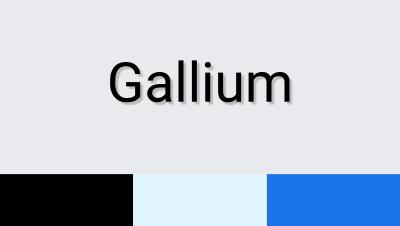
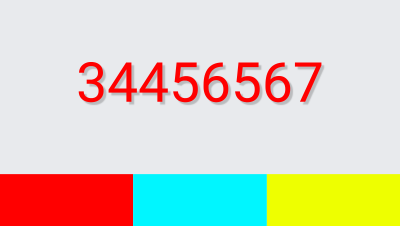
Insert zip content

diff --git a/.contentfusion/templates/34456567/styles.css b/.contentfusion/templates/34456567/styles.css
@@ -1,6 +1,6 @@
 @import url('https://fonts.googleapis.com/css?family=Roboto+Mono&display=swap');
 /*#
-@colors&{"titlesAccentColor":"#000000","labelsAccentColor":"#e1f5fe","linksAccentColor":"#1a73e8","backgroundAccentColor":"#e8eaed","isDefault":true}&colors@
+@colors&{"titlesAccentColor":"#ff0000","labelsAccentColor":"#00f6ff","linksAccentColor":"#eeff00","backgroundAccentColor":"#e8eaed","isDefault":true}&colors@
 @info@STYLES BASKET SELECTIONS METADATA@info@
 @name&styles_basket&name@
 @aspects&wh-tiles,accent-colors-selector,fonts-selector,code-font-roboto-mono,unordered-list-bullet-disc,table-style-bottom-border,notes-style-borders-square,notes-colors-colorful,toc-numbering-deep,left-pages-header-publication-title,right-pages-header-publication-title,wh-search-component-colors-white,wh-menu-page-colors-titles-color-no-bg,wh-footer-background-color&aspects@
@@ -69,23 +69,23 @@
 *[class~="placeholder/figurelist"] > *[class~="topic/title"],
 *[class~="placeholder/tablelist"] > *[class~="topic/title"],
 *[class~="index/groups"]::before {
-  color: #000000;
+  color: #ff0000;
 }
 *[class~='topic/shortdesc']:before {
-  color: #e1f5fe;
+  color: #00f6ff;
 }
 *[class~='topic/xref'],
 *[class~='topic/link'] {
-  color: #1a73e8;
+  color: #eeff00;
 }
 .related-links a,
 .related-links a:visited {
-  color: #1a73e8;
+  color: #eeff00;
 }
 a,
 a:hover,
 a:visited {
-  color: #1a73e8;
+  color: #eeff00;
 }
 *[class~='topic/table'] th {
   background-color: #e8eaed;
@@ -121,10 +121,9 @@ body {
   font-family: 'SecondaryBrandingFont', sans-serif;
 }
 /*code-font-roboto-mono*/
-*[class~='pr-d/codeblock'],
-*[class~='codeblock'],
 *[class~='pr-d/codeph'],
-*[class~='codeph'] {
+*[class~='pr-d/codeblock'],
+*[class~="pr-d/codeblock"] > code {
   font-family: 'Roboto Mono', monospace;
 }
 /*table-style-bottom-border*/
@@ -181,7 +180,7 @@ body {
 }
 .wh_top_menu > ul > li a,
 .wh_indexterms_link a::before {
-  color: #000000;
+  color: #ff0000;
 }
 .wh_indexterms_link a span {
   display: none;
